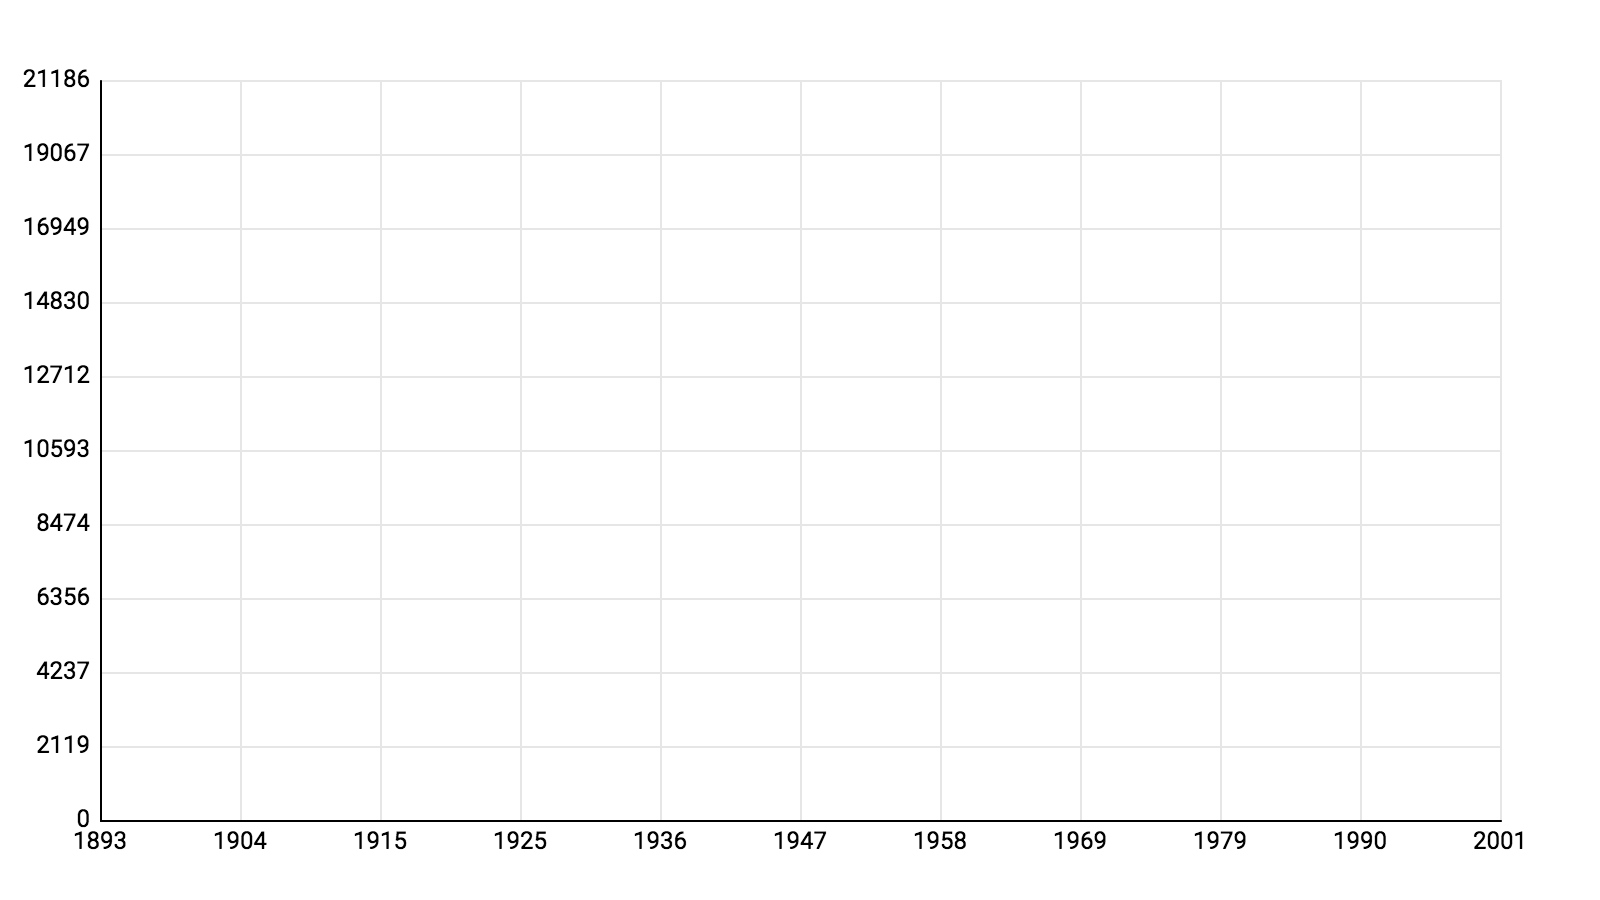
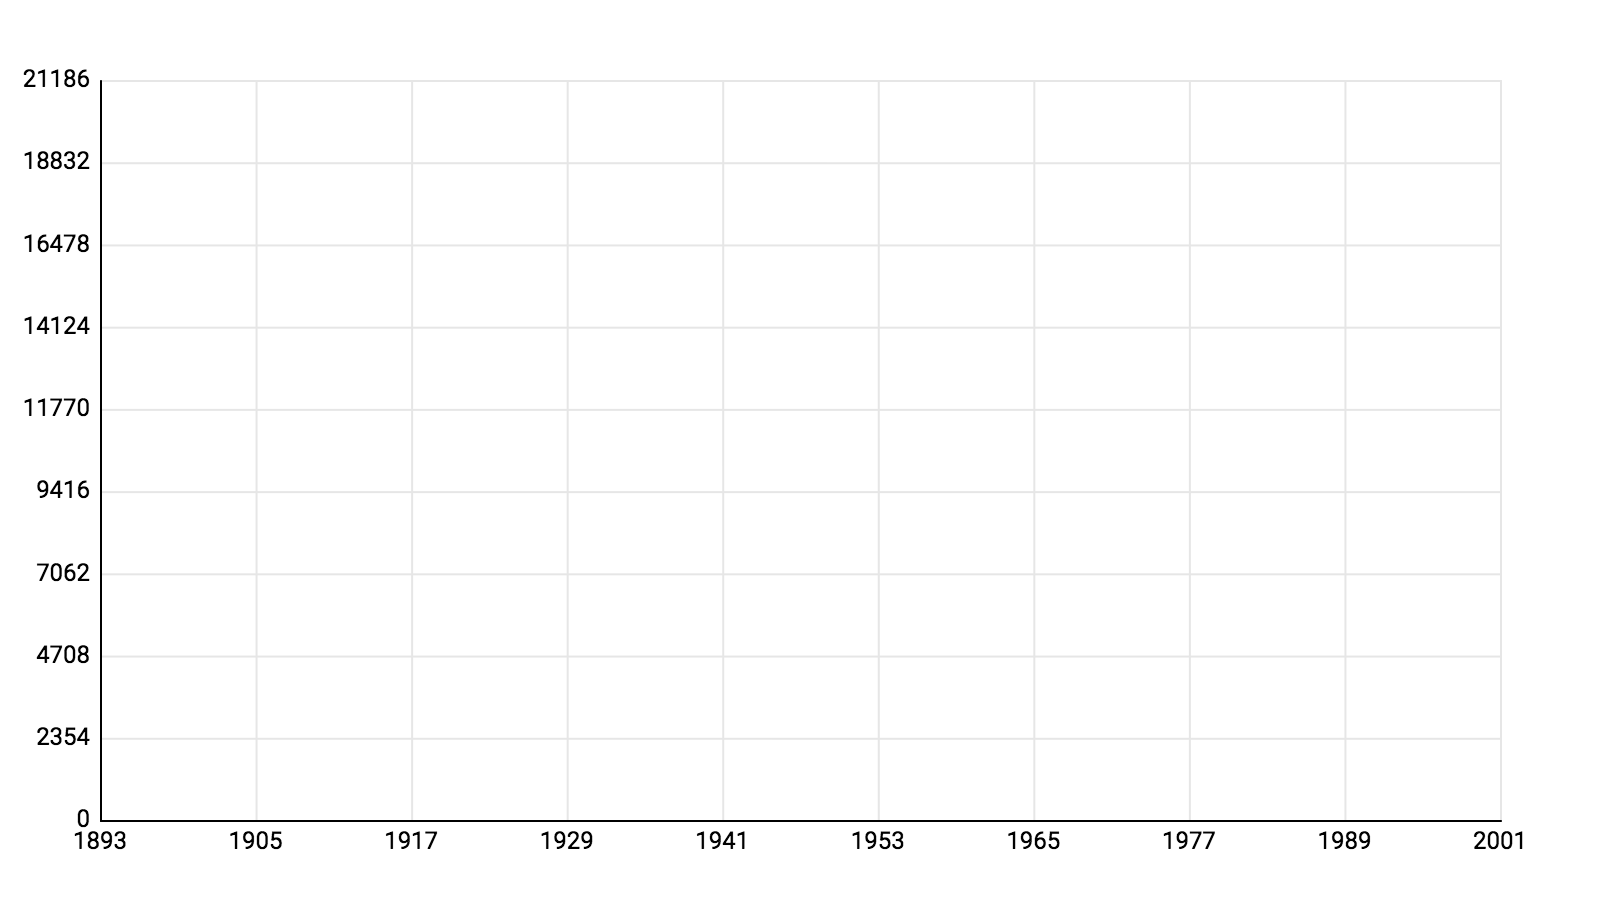
update

diff --git a/00_TestingGround/scripts/sketch.js b/00_TestingGround/scripts/sketch.js
@@ -37,6 +37,9 @@ function getMaxValues(){
     minDuration = min(minDuration, float(tripTable.getString(i, 'tripduration')));
   }
   minDuration = 0;
+  maxDuration = 4500;
+  minYears = 1935;
+  maxYears = 2005;
   yearRange = maxYears - minYears;
   durationRange = maxDuration - minDuration;
   print('Max year: ' + str(maxYears));
@@ -53,9 +56,11 @@ function draw(){
   var graphWidth = width - marginX * 2;
   // Draw minor axis lines
   stroke(230);
-  for (var i = 0; i < 10; i++) {
-    line(marginX, marginY + i * (graphHeight / 10), marginX + graphWidth, marginY + i * (graphHeight / 10));
-    line(marginX + (i + 1) * (graphWidth / 10), marginY, marginX + (i + 1) * (graphWidth / 10), marginY + graphHeight);
+  for (var i = 0; i < 9; i++) {
+    line(marginX, marginY + i * (graphHeight / 9), marginX + graphWidth, marginY + i * (graphHeight / 9));
+  }
+  for (var i = 0; i < 7; i++) {
+    line(marginX + (i + 1) * (graphWidth / 7), marginY, marginX + (i + 1) * (graphWidth / 7), marginY + graphHeight);
   }
   // Draw mayor axis lines
   stroke(0);
@@ -63,11 +68,13 @@ function draw(){
   line(marginX, marginY, marginX, height - marginY);
   // Draw labels
   noStroke();
-  for (var i = 0; i < 11; i++) {
+  for (var i = 0; i < 8; i++) {
     textAlign(CENTER, TOP);
-    text(round(minYears + i * (yearRange / 10)), marginX + (graphWidth / 10) * i, marginY + graphHeight + 5);
+    text(round(minYears + i * (yearRange / 7)), marginX + (graphWidth / 7) * i, marginY + graphHeight + 5);
+  }
+  for (var i = 0; i < 10; i++) {
     textAlign(RIGHT, CENTER);
-    text(round(maxDuration - i * (durationRange / 10)), marginX - 5, marginY + (graphHeight / 10) * i);
+    text(round(maxDuration - i * (durationRange / 9)), marginX - 5, marginY + (graphHeight / 9) * i);
   }
   // Plotting the dots
   fill(0);
@@ -79,51 +86,3 @@ function draw(){
     ellipse(thisX, thisY, 3, 3);
   }
 }
-
-// ***** Draw function ***** //
-// function draw(){
-// }
-
-// // ***** Create new table function ******* //
-// function createNewTable(){
-//   topRevenue.addColumn('release_date');
-//   topRevenue.addColumn('vote_average');
-//   for (var i = 0; i < moviesTable.getRowCount(); i++) {
-//     var totalRevenue = moviesTable.getNum(i, 'revenue');
-//     if (totalRevenue >= 100000000) {
-//       var newRow = topRevenue.addRow();
-//       newRow.setString('release_date', moviesTable.getString(i, 'release_date'));
-//       newRow.setNum('vote_average', moviesTable.getNum(i, 'vote_average'));
-//     }
-//   }
-//   print('New top revenue table created...');
-// }
-//
-// function drawMovies(table){
-//   background(255);
-//   fill(0);
-//   for (var i = 0; i < 11; i++) {
-//     noStroke();
-//     textAlign(RIGHT, CENTER);
-//     text(i, textLeft, map(i, 0, 10, bottomY, topY));
-//     stroke(200);
-//     line(textLeft + 10, map(i, 0, 10, bottomY, topY), rightX + 10, map(i, 0, 10, bottomY, topY));
-//   }
-//   noStroke();
-//   for (var i = 0; i < 10; i++) {
-//     textAlign(CENTER, TOP);
-//     text(round(map(i, 0, 9, 1916, 2017)), map(i, 0, 9, leftX, rightX), bottomY + 5);
-//   }
-//   for (var i = 0; i < table.getRowCount(); i++) {
-//     var date = table.getString(i, 'release_date').split('-')[0];
-//     var year = parseInt(date);
-//     var yearPosition = map(year, 1916, 2017, leftX, rightX);
-//     var scorePosition = map(table.getNum(i, 'vote_average'), 0, 10, bottomY, topY);
-//     ellipse(yearPosition, scorePosition, 3, 3);
-//   }
-// }
-//
-// // ***** Draw function ***** //
-// function draw(){
-//   drawMovies(topRevenue);
-// }

diff --git a/04_WorkingWithData_p5js.md b/04_WorkingWithData_p5js.md
@@ -204,9 +204,9 @@ function draw(){
   var graphWidth = width - marginX * 2;
   // Draw minor axis lines
   stroke(230);
-  for (var i = 0; i < 10; i++) {
-    line(marginX, marginY + i * (graphHeight / 10), marginX + graphWidth, marginY + i * (graphHeight / 10));
-    line(marginX + (i + 1) * (graphWidth / 10), marginY, marginX + (i + 1) * (graphWidth / 10), marginY + graphHeight);
+  for (var i = 0; i < 9; i++) {
+    line(marginX, marginY + i * (graphHeight / 9), marginX + graphWidth, marginY + i * (graphHeight / 9));
+    line(marginX + (i + 1) * (graphWidth / 9), marginY, marginX + (i + 1) * (graphWidth / 9), marginY + graphHeight);
   }
   // Draw mayor axis lines
   stroke(0);
@@ -214,11 +214,11 @@ function draw(){
   line(marginX, marginY, marginX, height - marginY);
   // Draw labels
   noStroke();
-  for (var i = 0; i < 11; i++) {
+  for (var i = 0; i < 10; i++) {
     textAlign(CENTER, TOP);
-    text(round(minYears + i * (yearRange / 10)), marginX + (graphWidth / 10) * i, marginY + graphHeight + 5);
+    text(round(minYears + i * (yearRange / 9)), marginX + (graphWidth / 9) * i, marginY + graphHeight + 5);
     textAlign(RIGHT, CENTER);
-    text(round(maxDuration - i * (durationRange / 10)), marginX - 5, marginY + (graphHeight / 10) * i);
+    text(round(maxDuration - i * (durationRange / 9)), marginX - 5, marginY + (graphHeight / 9) * i);
   }
 }
 ```
@@ -264,20 +264,104 @@ This is what's happening here:
 You should get something like this:
 ![02_Ellipses.png](https://github.com/CenterForSpatialResearch/dataviz_tutorials/blob/master/00_Images/04_Data/02_Ellipses.png)
 
+With this graph I can see that most of the riders in this dataset were born after 1930 and that most of the trips lasted less than 75 minutes (4,500 seconds). I'll take those new values and overwrite the maximum and minimum values for the years and duration to make a tighter graph, getting rid of the outliers.
 
+Now the graph should look like this:
+![03_AdjustedValues.png](https://github.com/CenterForSpatialResearch/dataviz_tutorials/blob/master/00_Images/04_Data/03_AdjustedValues.png)
 
+This graph tells us that most Citibike users were born between 1950 and 2000, and that most rides take between 0 and 1,500 seconds (25 minutes). This makes sense. And there isn't a huge difference in ride duration between older and younger people. More research is needed, of course, but this is a good start.
 
+Finally, I just adjusted the values and the number of labels and minor axis to make everything cleaner and more legible. Here's the final code:
+```js
+// ***** Global variables ***** //
+var tripTable;
+var maxYears = 0;
+var minYears = 2000;
+var yearRange;
+var maxDuration = 0;
+var minDuration = 5000;
+var durationRange;
+var marginX = 50;
+var marginY = 40;
 
+// ***** Preload function ***** //
+function preload(){
+  tripTable = loadTable('data/20171011_SelectedCitibikeTrips_Rnd5000.csv', 'csv', 'header');
+  console.log('Done loading table...');
+}
 
+// ***** Setup function ***** //
+function setup(){
+  createCanvas(800, 450);
+  textSize(12);
+  textFont('Roboto');
+  console.log('Setup complete...');
+  print(tripTable.getRowCount() + ' rows loaded...');
+  print(tripTable.getColumnCount() + ' columns loaded...');
+  console.log(tripTable);
+  getMaxValues();
+  noLoop(); // ** New
+}
 
+// ***** Get maximum values function ***** //
+function getMaxValues(){
+  for (var i = 0; i < tripTable.getRowCount(); i++) {
+    maxYears = max(maxYears, float(tripTable.getString(i, 'birth year')));
+    minYears = min(minYears, float(tripTable.getString(i, 'birth year')));
+    maxDuration = max(maxDuration, float(tripTable.getString(i, 'tripduration')));
+    minDuration = min(minDuration, float(tripTable.getString(i, 'tripduration')));
+  }
+  minDuration = 0;
+  maxDuration = 4500;
+  minYears = 1935;
+  maxYears = 2005;
+  yearRange = maxYears - minYears;
+  durationRange = maxDuration - minDuration;
+  print('Max year: ' + str(maxYears));
+  print('Min year: ' + str(minYears));
+  print('Max duration: ' + str(maxDuration));
+  print('Min duration: ' + str(minDuration));
+  print('Year range: ' + str(yearRange));
+  print('Duration range: ' + str(durationRange));
+}
 
+function draw(){
+  background(255);
+  var graphHeight = height - marginY * 2;
+  var graphWidth = width - marginX * 2;
+  // Draw minor axis lines
+  stroke(230);
+  for (var i = 0; i < 9; i++) {
+    line(marginX, marginY + i * (graphHeight / 9), marginX + graphWidth, marginY + i * (graphHeight / 9));
+  }
+  for (var i = 0; i < 7; i++) {
+    line(marginX + (i + 1) * (graphWidth / 7), marginY, marginX + (i + 1) * (graphWidth / 7), marginY + graphHeight);
+  }
+  // Draw mayor axis lines
+  stroke(0);
+  line(marginX, height - marginY, width - marginX, height - marginY);
+  line(marginX, marginY, marginX, height - marginY);
+  // Draw labels
+  noStroke();
+  for (var i = 0; i < 8; i++) {
+    textAlign(CENTER, TOP);
+    text(round(minYears + i * (yearRange / 7)), marginX + (graphWidth / 7) * i, marginY + graphHeight + 5);
+  }
+  for (var i = 0; i < 10; i++) {
+    textAlign(RIGHT, CENTER);
+    text(round(maxDuration - i * (durationRange / 9)), marginX - 5, marginY + (graphHeight / 9) * i);
+  }
+  // Plotting the dots
+  fill(0);
+  for (var i = 0; i < tripTable.getRowCount(); i++) {
+    var thisYear = float(tripTable.getString(i, 'birth year'));
+    var thisDuration = float(tripTable.getString(i, 'tripduration'));
+    var thisX = map(thisYear, minYears, maxYears, marginX, marginX + graphWidth);
+    var thisY = map(thisDuration, minDuration, maxDuration, marginY + graphHeight, marginY);
+    ellipse(thisX, thisY, 3, 3);
+  }
+}
+```
 
-
-
-
-
-
-
-
-
---------
+And here's the final graph:
+![04_FinalGraph.png](https://github.com/CenterForSpatialResearch/dataviz_tutorials/blob/master/00_Images/04_Data/04_FinalGraph.png)
